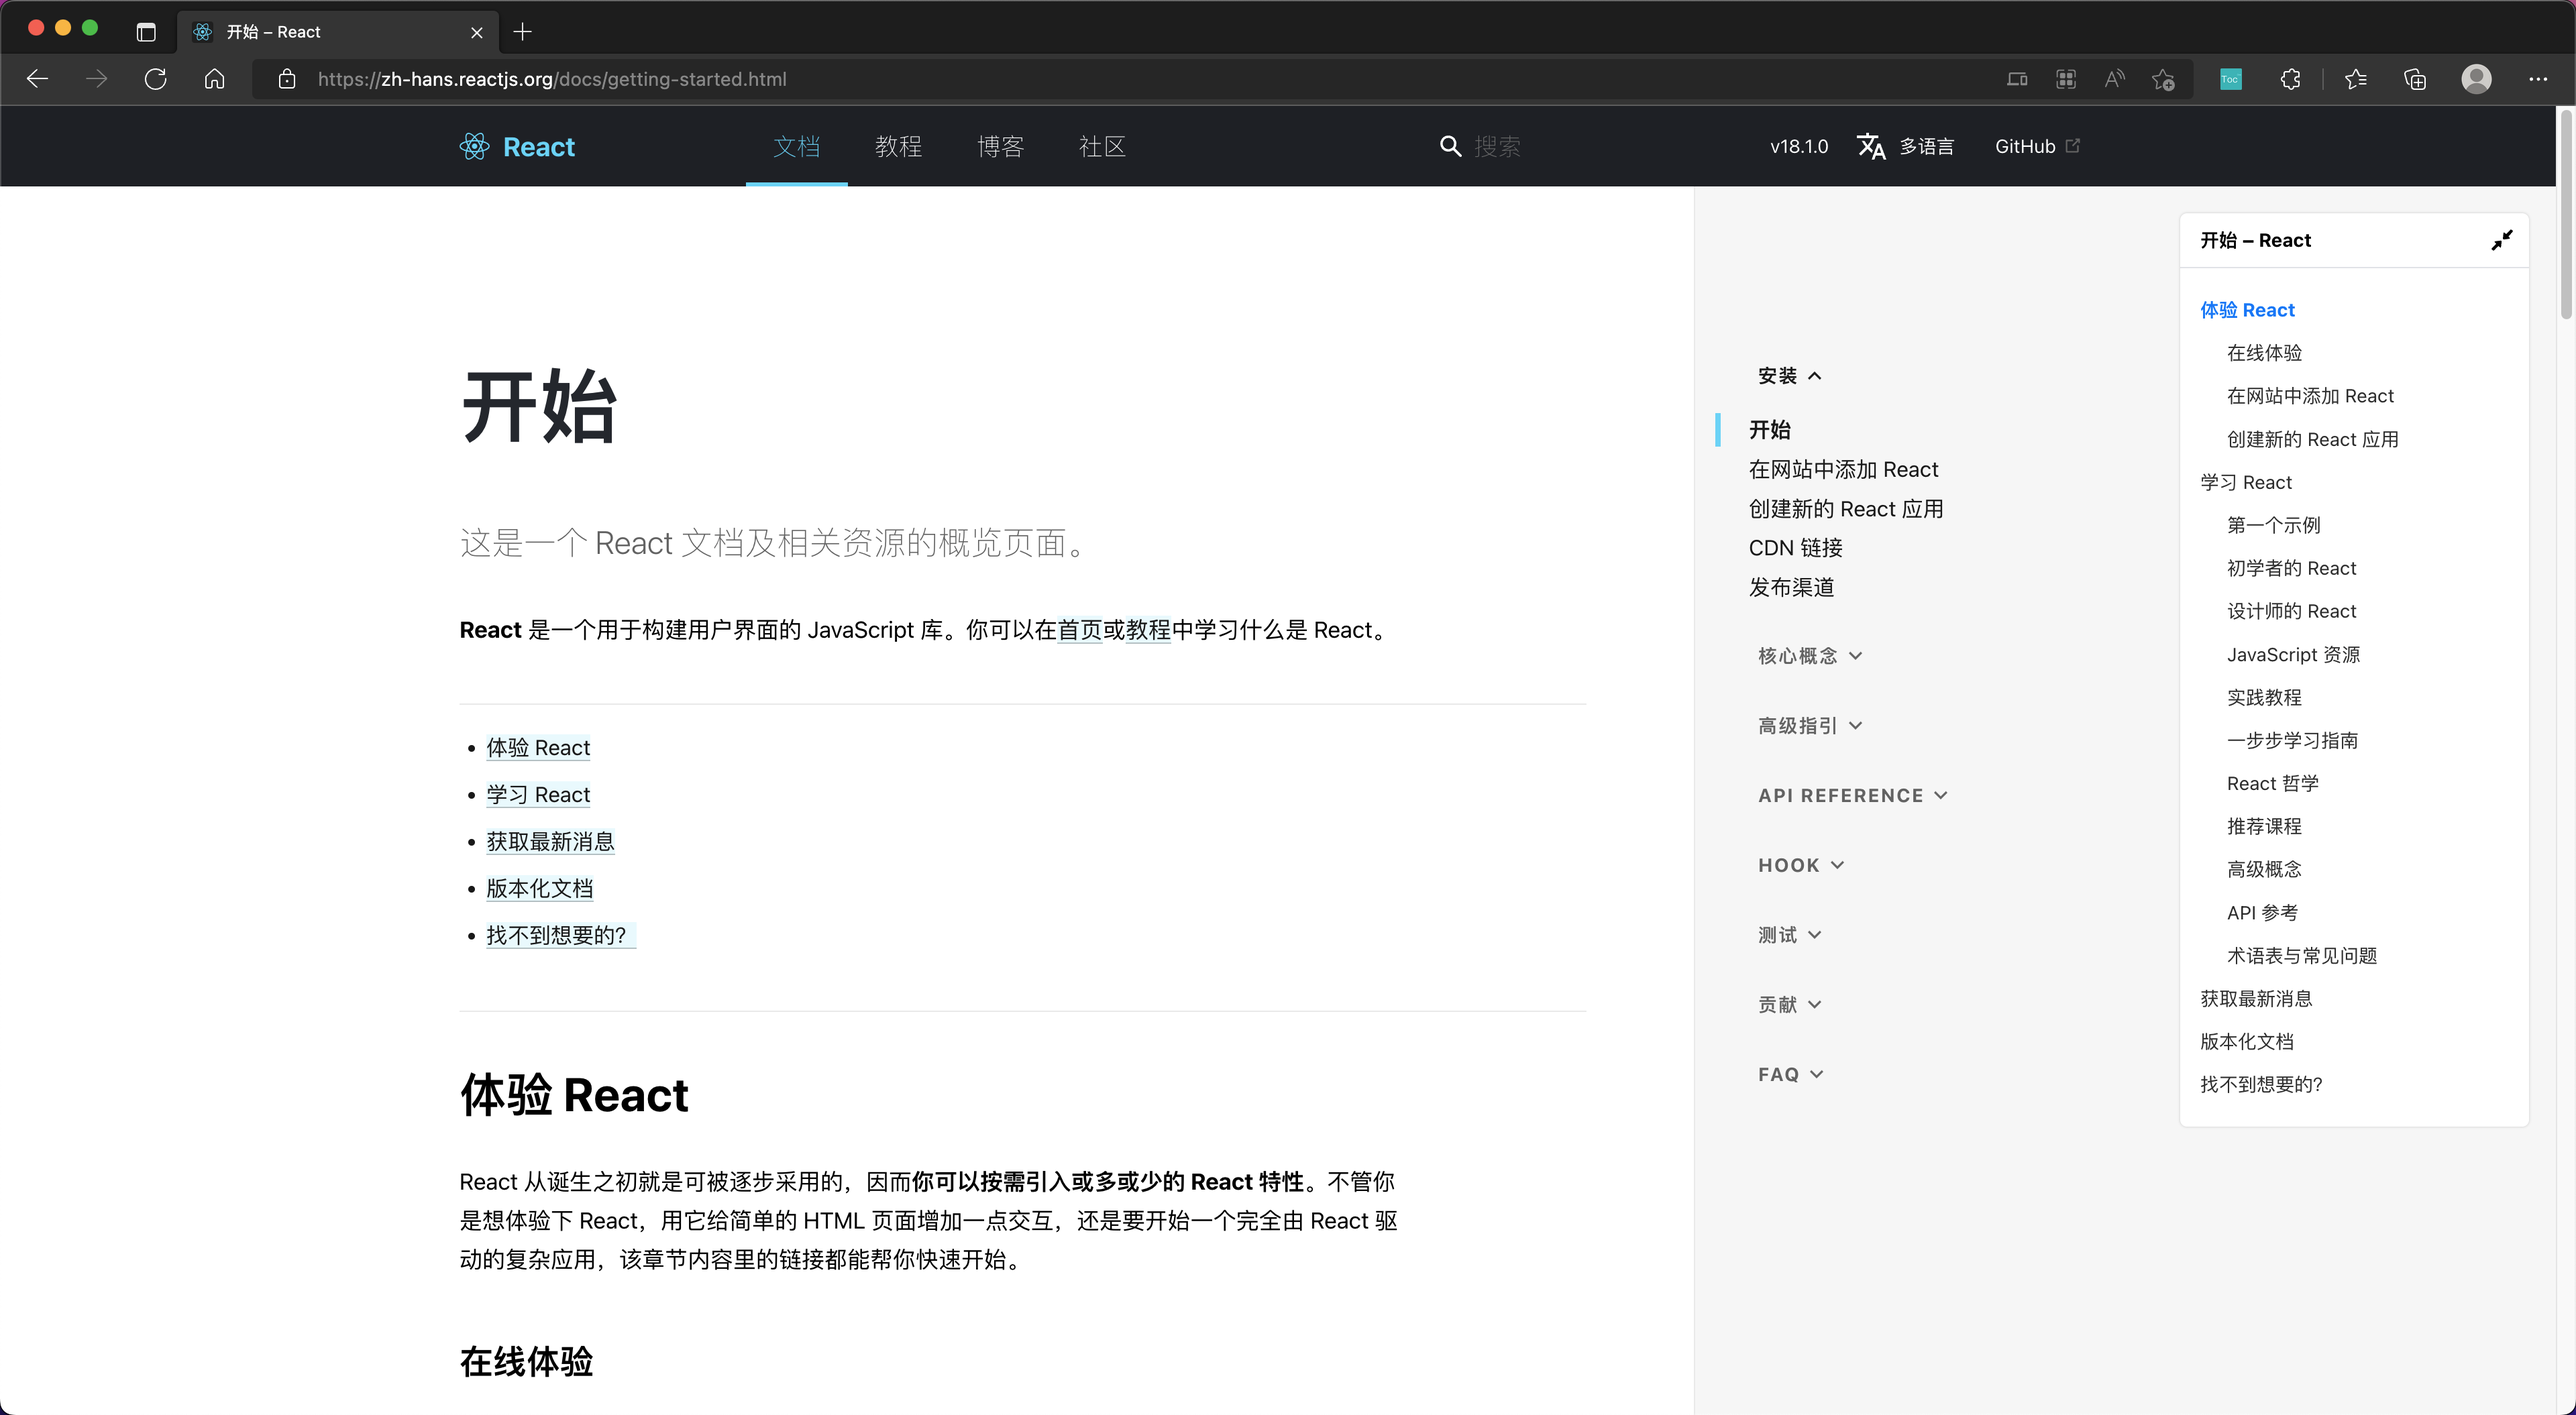
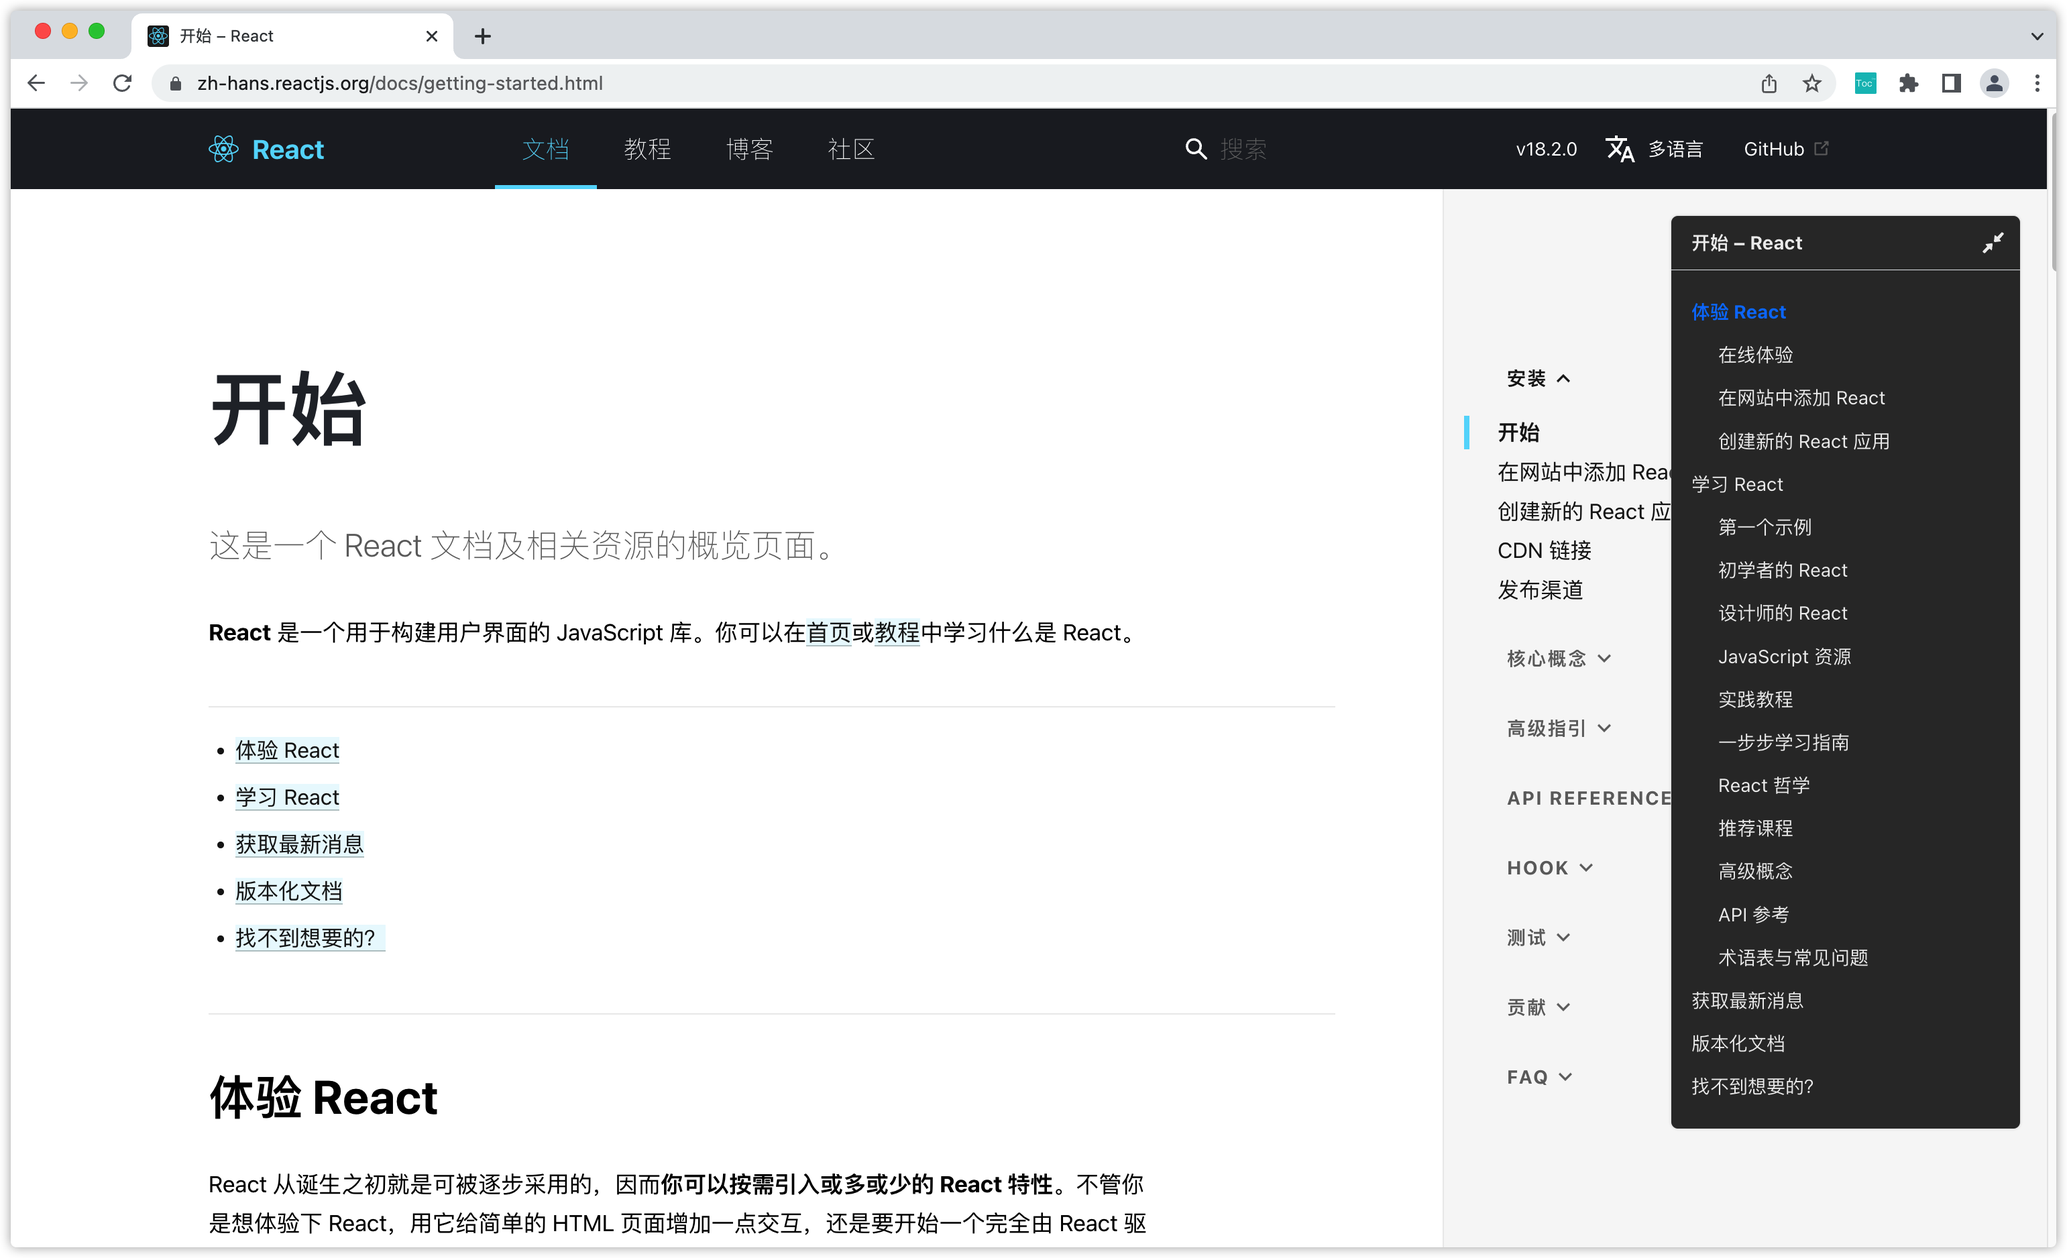
feat: 调整配置选项

diff --git a/src/popup/form.tsx b/src/popup/form.tsx
@@ -1,6 +1,6 @@
 import React from 'react';
 import { Input, Radio, RadioChangeEvent, Switch } from 'antd';
-import { THEME_OPTIONS } from './default-settings';
+import { EXPAND_OPTIONS, GLOB_OPTIONS, THEME_OPTIONS } from './default-settings';
 import { SETTINGS_ACTION_NAMES, useSettings } from './use-settings';
 import pkg from '../../package.json';
 import manifest from '../../public/manifest.json';
@@ -27,6 +27,7 @@ export function Form() {
           </span>
           <Switch checked={settings.enabled} onChange={setEnabled} checkedChildren="开启" unCheckedChildren="关闭" />
         </div>
+
         <div className="space-between">
           <span>🌈&ensp;主题</span>
           <Radio.Group
@@ -37,13 +38,27 @@ export function Form() {
             buttonStyle="solid"
           />
         </div>
+
         <div className="space-between">
-          <span>🔆 &ensp;默认展开</span>
-          <Switch checked={settings.expanded} onChange={setExpanded} checkedChildren="开" unCheckedChildren="关" />
+          <span>🔆&ensp;默认展开</span>
+          <Radio.Group
+            options={EXPAND_OPTIONS}
+            onChange={(e: RadioChangeEvent) => setExpanded(e.target.value as boolean)}
+            value={settings.expanded}
+            optionType="button"
+            buttonStyle="solid"
+          />
         </div>
+
         <div className="space-between">
-          <span>🌐&ensp;定制匹配规则</span>
-          <Switch checked={settings.enableGlob} onChange={setEnableGlob} checkedChildren="开" unCheckedChildren="关" />
+          <span>🌐&ensp;匹配网站</span>
+          <Radio.Group
+            options={GLOB_OPTIONS}
+            onChange={(e: RadioChangeEvent) => setEnableGlob(e.target.value as boolean)}
+            value={settings.enableGlob}
+            optionType="button"
+            buttonStyle="solid"
+          />
         </div>
         <Input.TextArea
           value={settings.whitelist}
@@ -54,6 +69,7 @@ export function Form() {
           placeholder="请输入网站匹配规则，规则使用glob编写，多个规则用换行符分隔"
           showCount={true}
         />
+
         <div className="popup-footer">
           <span>❗&ensp;</span>
           <a href={pkg.homepage + '#配置说明'} target="_blank" rel="noreferrer">

diff --git a/src/content/toc.less b/src/content/toc.less
@@ -19,22 +19,22 @@
   }
 
   &, * {
+    width: unset;
+    height: unset;
     margin: 0;
     padding: 0;
     box-sizing: border-box;
     line-height: 1.15;
+    color: var(--onetoc-color);
+    font-size: 14px;
     font-family: -apple-system, BlinkMacSystemFont, Segoe UI, Roboto, Oxygen, Ubuntu, Cantarell, Fira Sans, Droid Sans, Helvetica Neue, sans-serif;
     font-style: normal;
-    width: unset;
-    height: unset;
     border: unset;
   }
 
   position: fixed;
   top: 100px;
   right: 20px;
-  color: var(--onetoc-color);
-  font-size: 14px;
   z-index: 999999;
 
   &.toc-expanded {
@@ -46,6 +46,7 @@
     background: var(--onetoc-bg-color);
     backdrop-filter: var(--onetoc-bg-filter);
     box-shadow: 0 0 2px 0 #ccc;
+    overflow: hidden;
   }
 }
 

diff --git a/src/popup/default-settings.ts b/src/popup/default-settings.ts
@@ -12,6 +12,16 @@ export const THEME_OPTIONS = [
   { label: '深色', value: 'dark' },
 ];
 
+export const GLOB_OPTIONS = [
+  { label: '所有', value: false },
+  { label: '定制', value: true },
+];
+
+export const EXPAND_OPTIONS = [
+  { label: '展开', value: true },
+  { label: '收起', value: false },
+];
+
 export const DEFAULT_SETTINGS: Settings = {
   enabled: true,
   expanded: true,

diff --git a/README.md b/README.md
@@ -24,24 +24,29 @@ Append TOC to the websites such as technical documentation, technical blogs, etc
 - 点击左上角加载已解压的扩展程序，选择扩展程序目录即可
 
 ## 配置说明
-> 选择启用与默认展开、且链接满足匹配规则的页面时，才会生成导航目录。修改配置会立即生效。
+> 选择开启与默认展开、且页面链接满足匹配规则时，页面才会显示导航目录。修改配置会立即生效。
 
-### 启用
-> 插件的启用和关闭状态，启用才能显示导航目录
-- 插件默认启用，打开页面时若链接匹配会往页面添加导航目录
-- 插件关闭时，打开页面不会对页面有任何改动
+![](screenshots/popup.png)
+
+### 开启和关闭
+> 插件可选择开启或关闭两种状态
+- 插件默认开启，打开页面显示导航目录
+- 插件关闭时，打开页面不显示导航目录
+
+### 主题
+> 插件提供默认、浅色、深色等3种主题
 
 ### 默认展开
-> 打开新页面时插件的展开和收起状态，展开状态才会完整显示导航目录，收起状态只显示展开按钮
+> 打开新页面时插件的显示状态，收起状态只显示展开按钮，展开状态才会完整显示导航目录
 - 插件默认展开，打开新页面或刷新时自动展开
-- 关闭默认展开时，打开新页面或刷新时目录自动收起，只显示圆形的展开按钮
+- 选中收起时，打开新页面或刷新时目录自动收起，只显示圆形的展开按钮
 
-### 匹配规则
-> 匹配页面链接的规则，符合匹配规则的页面才会显示导航目录
+### 匹配网站
+> 插件在哪些网站启用，默认为 `所有` 网站，也可以 `定制`；`定制` 模式下可自行编写匹配规则，符合匹配规则的页面才会显示导航目录
 - 匹配规则使用[glob](https://en.wikipedia.org/wiki/Glob_(programming))编写
 - 匹配所使用的库是[micromatch](https://github.com/micromatch/micromatch)
-- 匹配所有页面可配置为 `**`
-- 插件默认的匹配规则如下，可自行修改
+- 示例1：匹配所有页面的规则为 `**`
+- 示例2：常用的技术网站匹配规则如下
 ```text
 *reactjs.org/(docs|blog)/**
 *zhihu.com/p/**
@@ -69,9 +74,3 @@ Append TOC to the websites such as technical documentation, technical blogs, etc
 - 掘金：https://juejin.cn
 - 思否：https://segmentfault.com
 - NCBI：https://www.ncbi.nlm.nih.gov
-
-### 不兼容的网站
-- iteye：https://www.iteye.com/blog/zhoumeng87-2531925
-  - 标题不使用Heading标签（h2、h3等），暂未兼容
-- infoq：https://www.infoq.cn/article/BwXyBWmqroBpkrEdvV1l
-  - TODO：ajax加载数据，目录渲染不出数据
